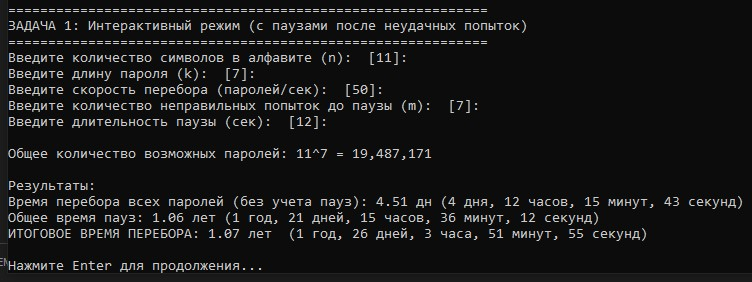
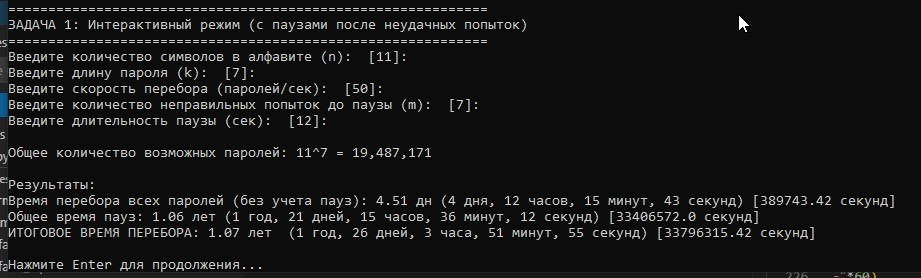
adding format_time_detailed

diff --git a/main.py b/main.py
@@ -89,9 +89,9 @@ def task1():
     total_time = time_without_pause + total_pause_time
     
     print(f"\nРезультаты:")
-    print(f"Время перебора всех паролей (без учета пауз): {format_time(time_without_pause)} ({format_time_detailed(time_without_pause)})")
-    print(f"Общее время пауз: {format_time(total_pause_time)} ({format_time_detailed(total_pause_time)})")
-    print(f"ИТОГОВОЕ ВРЕМЯ ПЕРЕБОРА: {format_time(total_time)}  ({format_time_detailed(total_time)})")
+    print(f"Время перебора всех паролей (без учета пауз): {format_time(time_without_pause)} ({format_time_detailed(time_without_pause)}) [{time_without_pause} секунд]")
+    print(f"Общее время пауз: {format_time(total_pause_time)} ({format_time_detailed(total_pause_time)}) [{total_pause_time} секунд]")
+    print(f"ИТОГОВОЕ ВРЕМЯ ПЕРЕБОРА: {format_time(total_time)}  ({format_time_detailed(total_time)}) [{total_time} секунд]")
 
 def task2():
     """Задача 2: Минимальная длина пароля для заданного времени"""
@@ -122,7 +122,7 @@ def task2():
     print(f"Требуемое количество паролей для перебора: {required_passwords:.2e}")
     print(f"Минимальная длина пароля: {min_k} символов")
     print(f"Фактическое количество паролей: {actual_passwords:,}")
-    print(f"Фактическое время перебора: {format_time(actual_time)} ({actual_time_years:.2f} лет) ({format_time_detailed(actual_time)})")
+    print(f"Фактическое время перебора: {format_time(actual_time)} ({actual_time_years:.2f} лет) ({format_time_detailed(actual_time)}) [{actual_time} секунд]")
 
 def task3():
     """Задача 3: Минимальная мощность алфавита"""
@@ -152,7 +152,7 @@ def task3():
     print(f"Требуемое количество паролей для перебора: {required_passwords:.2e}")
     print(f"Минимальная мощность алфавита: {min_n} символов")
     print(f"Фактическое количество паролей: {actual_passwords:,}")
-    print(f"Фактическое время перебора: {format_time(actual_time)} ({actual_time_years:.2f} лет) ({format_time_detailed(actual_time)})")
+    print(f"Фактическое время перебора: {format_time(actual_time)} ({actual_time_years:.2f} лет) ({format_time_detailed(actual_time)}) [{actual_time} секунд]")
 
 def main():
     print("\n" + "="*60)
@@ -211,9 +211,9 @@ def main():
             total_time = time_without_pause + total_pause_time
             
             print(f"Общее количество паролей: {total_passwords:,}")
-            print(f"Время без пауз: {format_time(time_without_pause)} ({format_time_detailed(time_without_pause)})")
-            print(f"Время пауз: {format_time(total_pause_time)} ({format_time_detailed(total_pause_time)})")
-            print(f"ИТОГО: {format_time(total_time)} ({format_time_detailed(total_time)})")
+            print(f"Время без пауз: {format_time(time_without_pause)} ({format_time_detailed(time_without_pause)}) [{time_without_pause} секунд]")
+            print(f"Время пауз: {format_time(total_pause_time)} ({format_time_detailed(total_pause_time)}) [{total_pause_time} секунд]")
+            print(f"ИТОГО: {format_time(total_time)} ({format_time_detailed(total_time)}) [{total_time} секунд]")
             
             print("\n" + "="*60)
             print("ЗАДАЧА 2")
